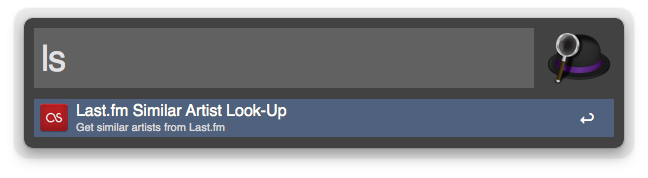
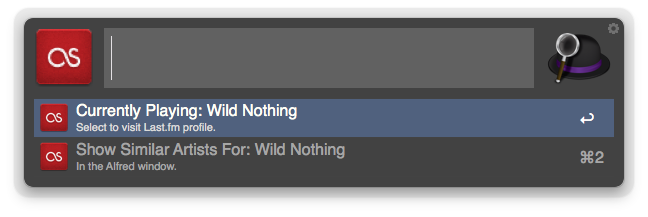
v0.3
Hotkey support. Also detects currently playing track in iTunes, if one
exists.

diff --git a/README.md b/README.md
@@ -5,7 +5,8 @@ Lastfm-Lookup
 
 Search Last.fm database for an artist and retrieve a list of suggested artists. Selecting the similar artist from Alfred's list takes you to the Last.fm page for more info.
 
-- "LS" triggers the workflow.
+- "LS" or Hotkey triggers the workflow.
+- Initially populates with a search for the currently playing track in iTunes, if one is playing.
 - As you type an artist name, the workflow searches Last.fm for your query and provides a list of possible matches.
 - Selecting an artist form the list provides a new list of Last.fm's Similar Artists for the previously chosen one.
 - Selecting an artist from the new list takes you to their Last.fm page.
@@ -15,3 +16,5 @@ Search Last.fm database for an artist and retrieve a list of suggested artists. 
 Initial Release
 ######v.02
 Add additional feedback for original artist.
+######v.03
+Add Hotkey support. Now defaults to populating current playing artist from iTunes.
